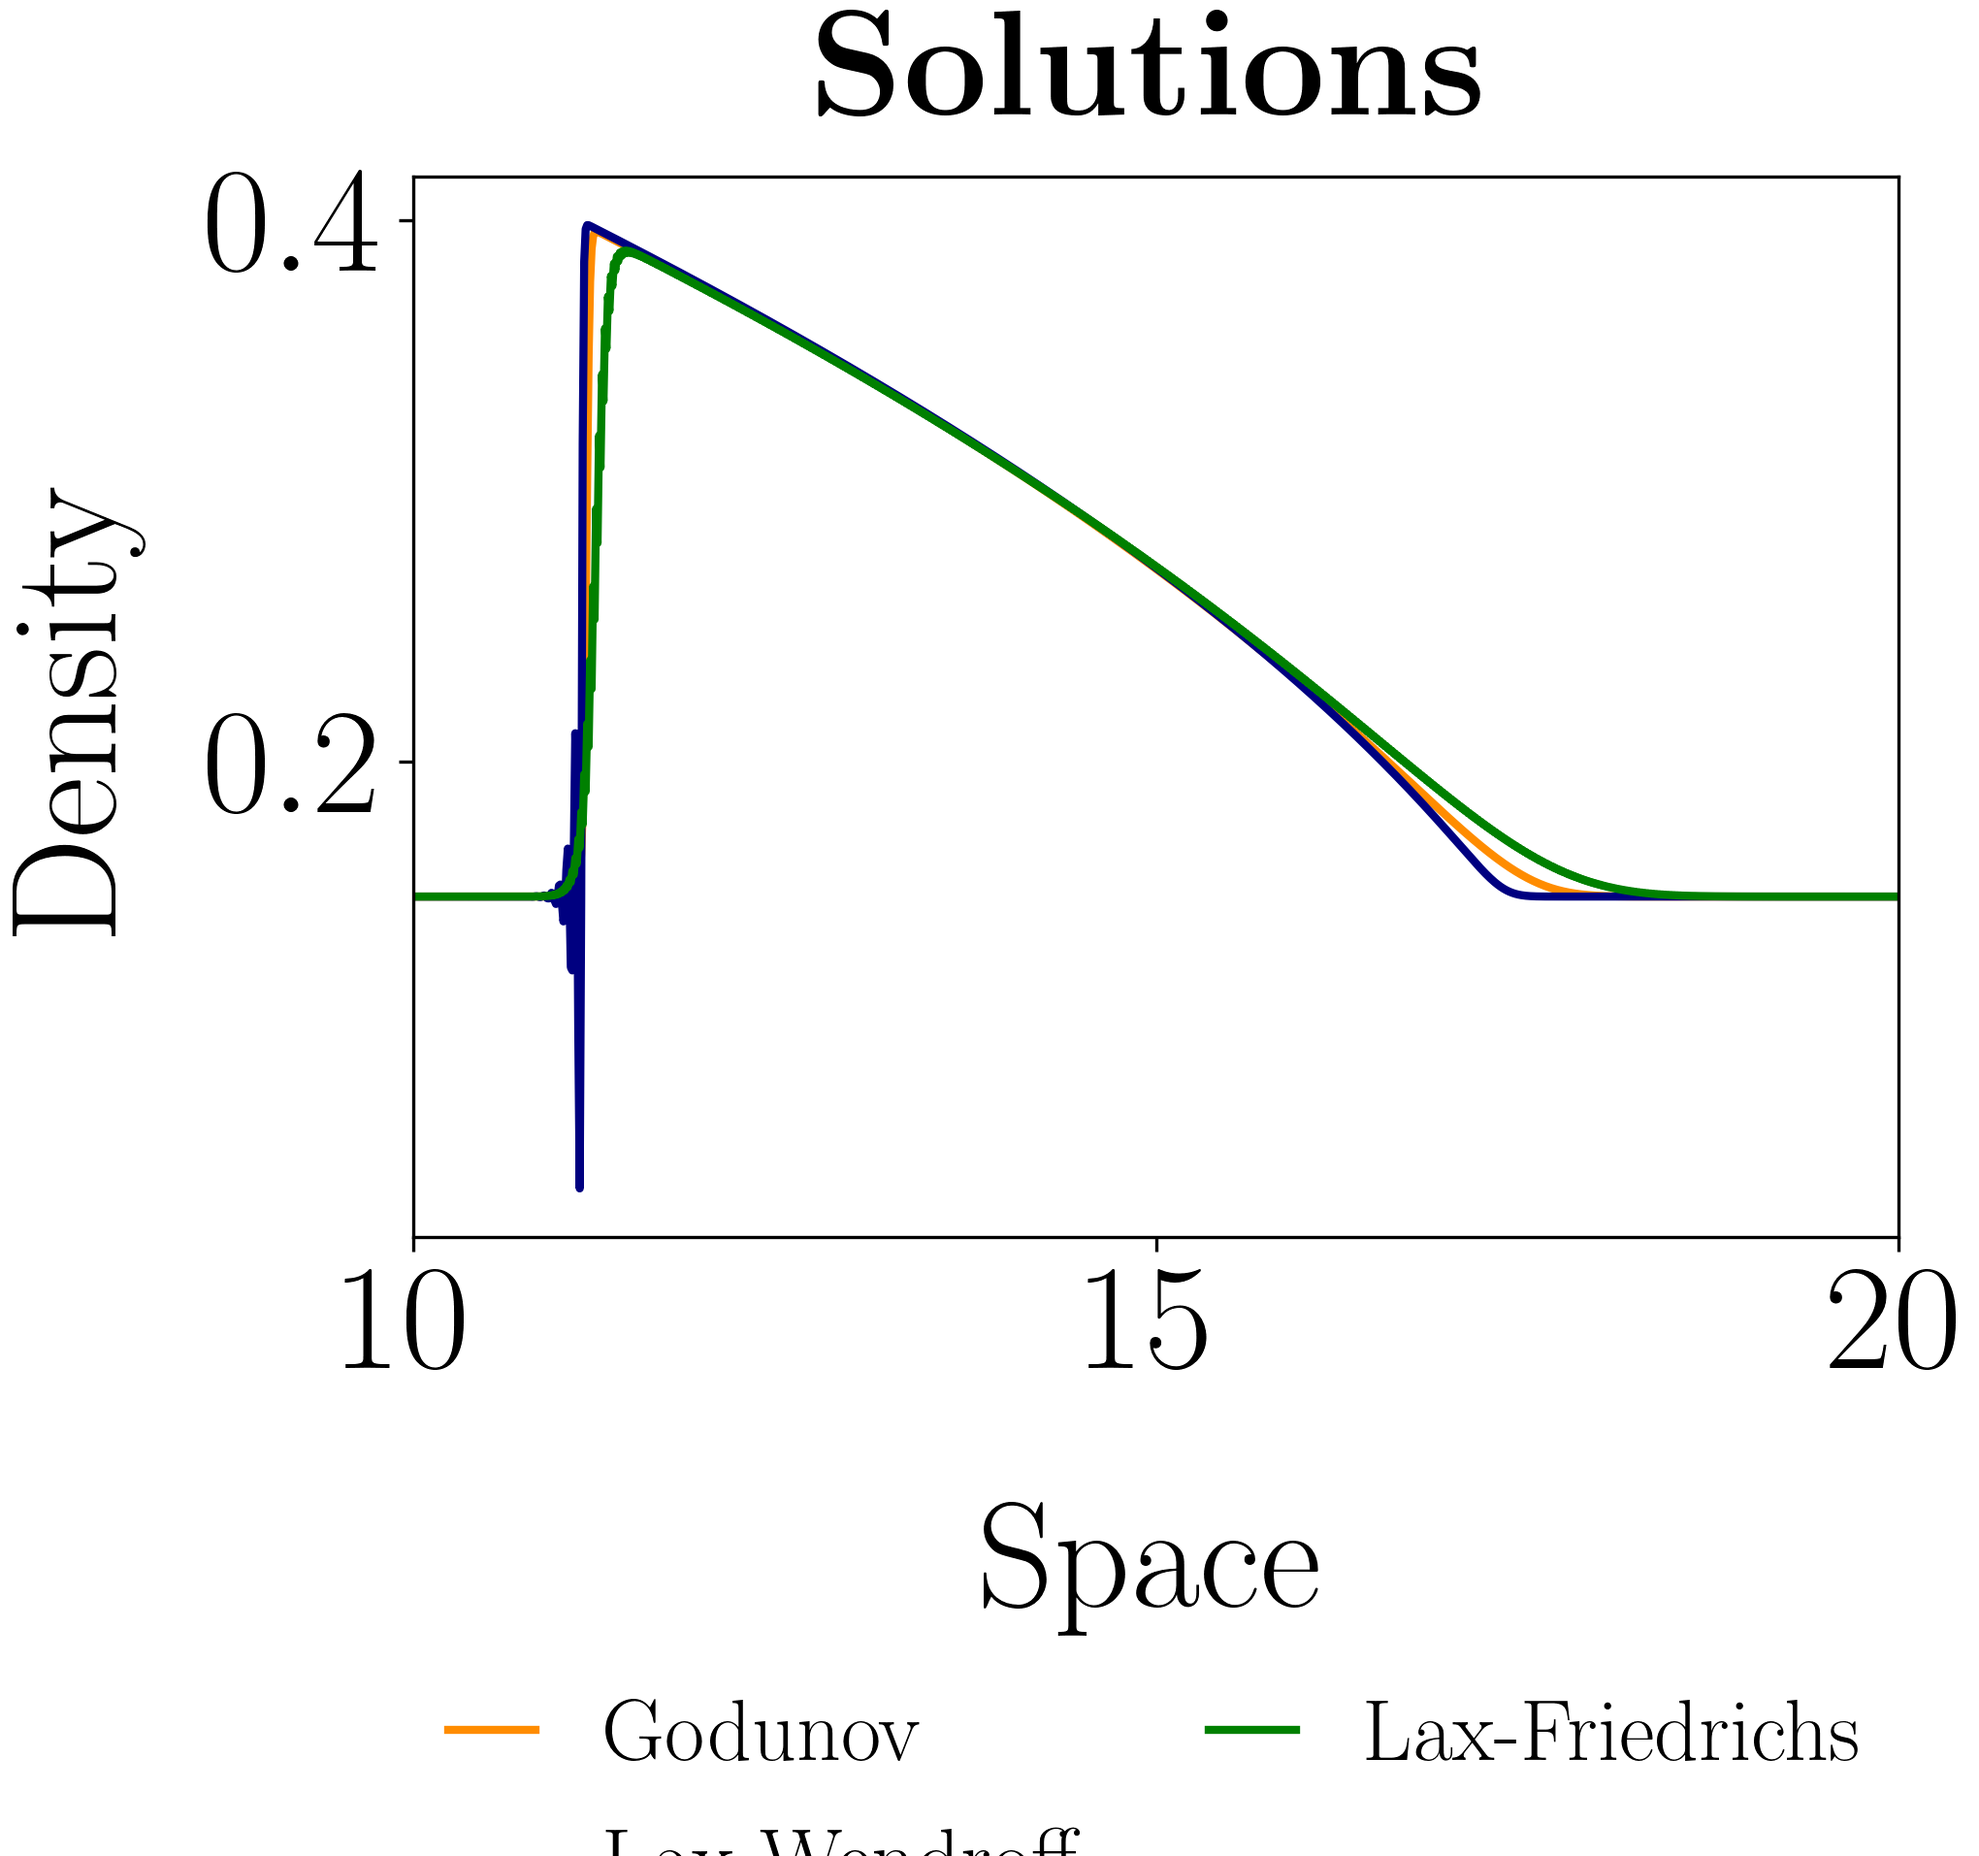
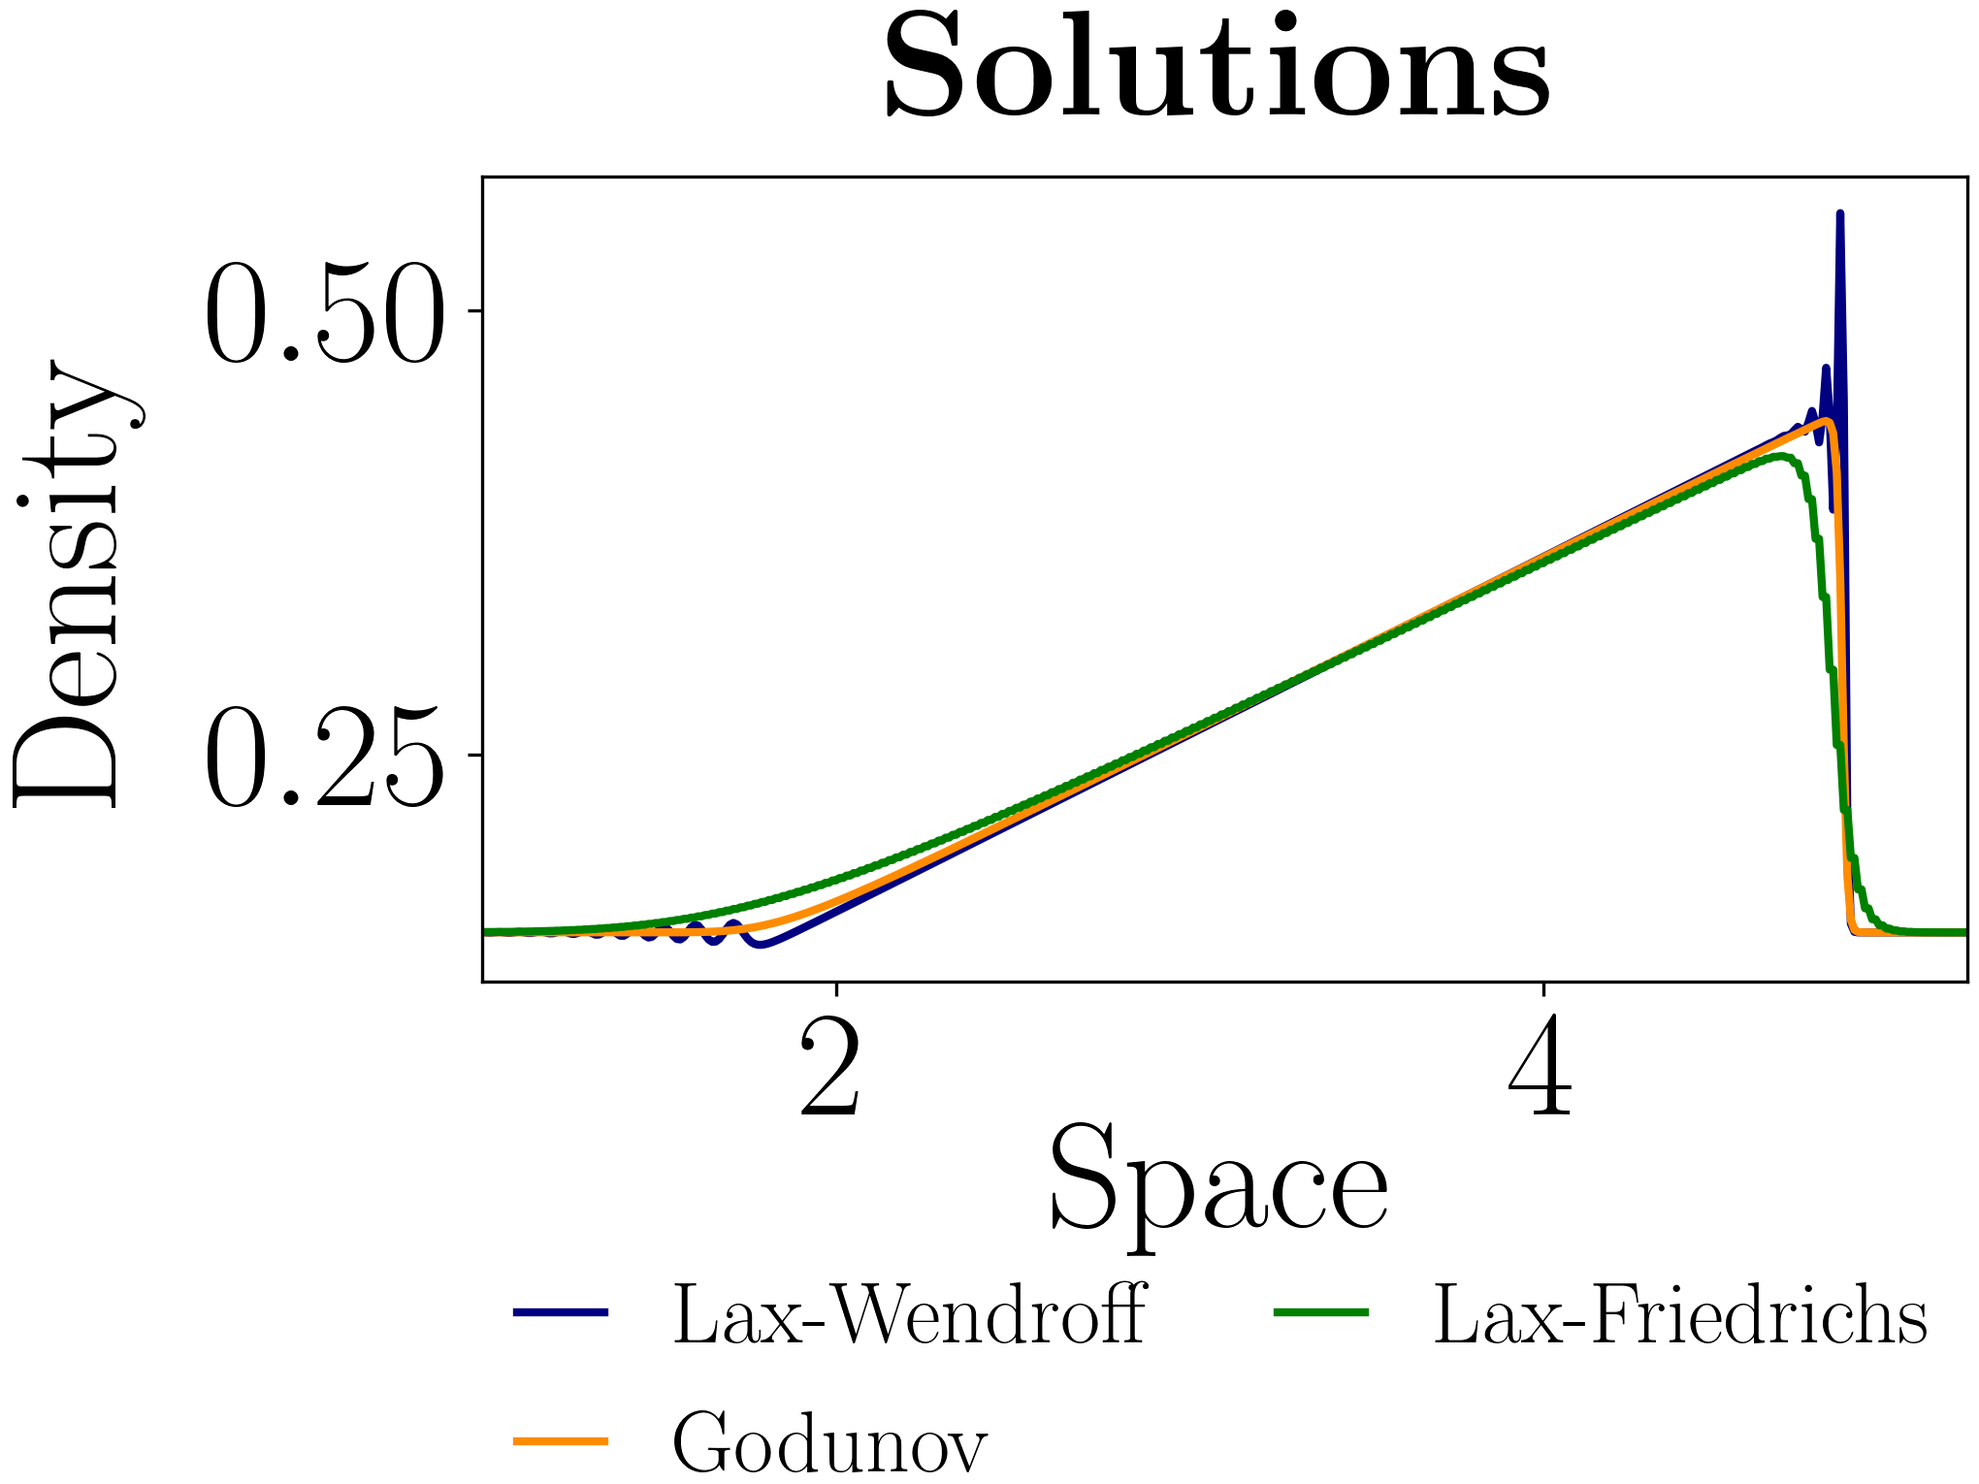
plotting of comprehention

diff --git a/Python/compare_methods.py b/Python/compare_methods.py
@@ -11,9 +11,9 @@ plt.style.use(cwd + '/poster.mplstyle')
 
 save = False
 '~~~~~~~~~~ SELECT THE PROBLEM FUNCTIONS ~~~~~~~~~~'
-name_of_problem = 'traffic'
+#name_of_problem = 'traffic'
 #name_of_problem = 'linear'
-#name_of_problem = 'Burger'
+name_of_problem = 'Burger'
 #name_of_problem = 'Buckley-Leverett'
 
 
@@ -34,17 +34,24 @@ T = 15
 X = 20
 h = 0.1
 
+T = 5
+X = 10
+h = 0.01
+
 X, h, x_step, T, k, t_step, U_0 = init.get_initial(name_of_init, U=0, X=X, T=T, h=h)
 
 f, f_prime, speed = init.get_problemfunction(name_of_problem, c=c)
 
 sols = []
-methods = ['Godunov', 'Lax-Wendsdroff from lecture', 'Lax-Friedrichs']
+methods = ['Lax-Wendsdroff from lecture', 'Godunov', 'Lax-Friedrichs']
 '------------------ SOLVE THE PDE WITH ALL METHODS -----------------------------------------------------------------------------------------'
 for method in methods:
     sols.append(step.solve_problem(method, U_0, X, T, h, k, x_step, t_step, f, f_prime))
 
 
+'----------------- compute true solution ---------------------------------------------------'
+datapoint = int(np.floor(T/k))
+true_sol = step.get_true_linear_sol(U_0, datapoint, h, k, c)[0]
 
 '------------------ PLOT SOLUTION ---------------------------------------------------------------------------------------------'
 'PLOT SOLUTION'
@@ -58,20 +65,28 @@ elif col_span == 1:
     matplotlib.rcParams['figure.figsize'] = (6.8025, 5.101875001)
 
 i = 0
-colors = ['darkorange', 'navy', 'green']
-name = ['Godunov', 'Lax-Wendroff', 'Lax-Friedrichs']
+colors = ['navy', 'darkorange', 'green']
+name = ['Lax-Wendroff', 'Godunov', 'Lax-Friedrichs']
 x_steplist = np.arange(0, X, h)
 for method in name:
-    plt.plot(x_steplist, sols[i][-1], label='\\rmfamily ' + method, linewidth=lw, color = colors[i]) #Plotting the solution for each method
+    plt.plot(x_steplist, sols[i][-1], label='\\rmfamily ' + method, linewidth=lw, color=colors[i]) #Plotting the solution for each method
     i += 1
 
-plt.xlim([8, 20])
+if name_of_problem == 'traffic':
+    plt.xlim([3.3, 7])
+
+elif name_of_problem == 'linear':
+    plt.plot(x_steplist, true_sol, ':', label='\\rmfamily true solution', linewidth=lw, color='dimgray', zorder=0)
+    plt.xlim([4.4, 7.5])
+
+if name_of_problem == 'Burger':
+    plt.xlim([1, 5.2])
 
 plt.title('\\rmfamily\\bfseries Solutions', pad=15)
 plt.xlabel('\\rmfamily Space')
-plt.gca().xaxis.set_label_coords(0.5, -0.25)
+plt.gca().xaxis.set_label_coords(0.5, -0.175)
 plt.ylabel('\\rmfamily Density')
-plt.legend(bbox_to_anchor=(0., -0.5, 1., .102), loc='upper left',
+plt.legend(bbox_to_anchor=(0., -0.425, 1., .102), loc='upper left',
             ncol=2, mode="expand", borderaxespad=0., handlelength=1., fontsize=21.6)
 
 if save:
